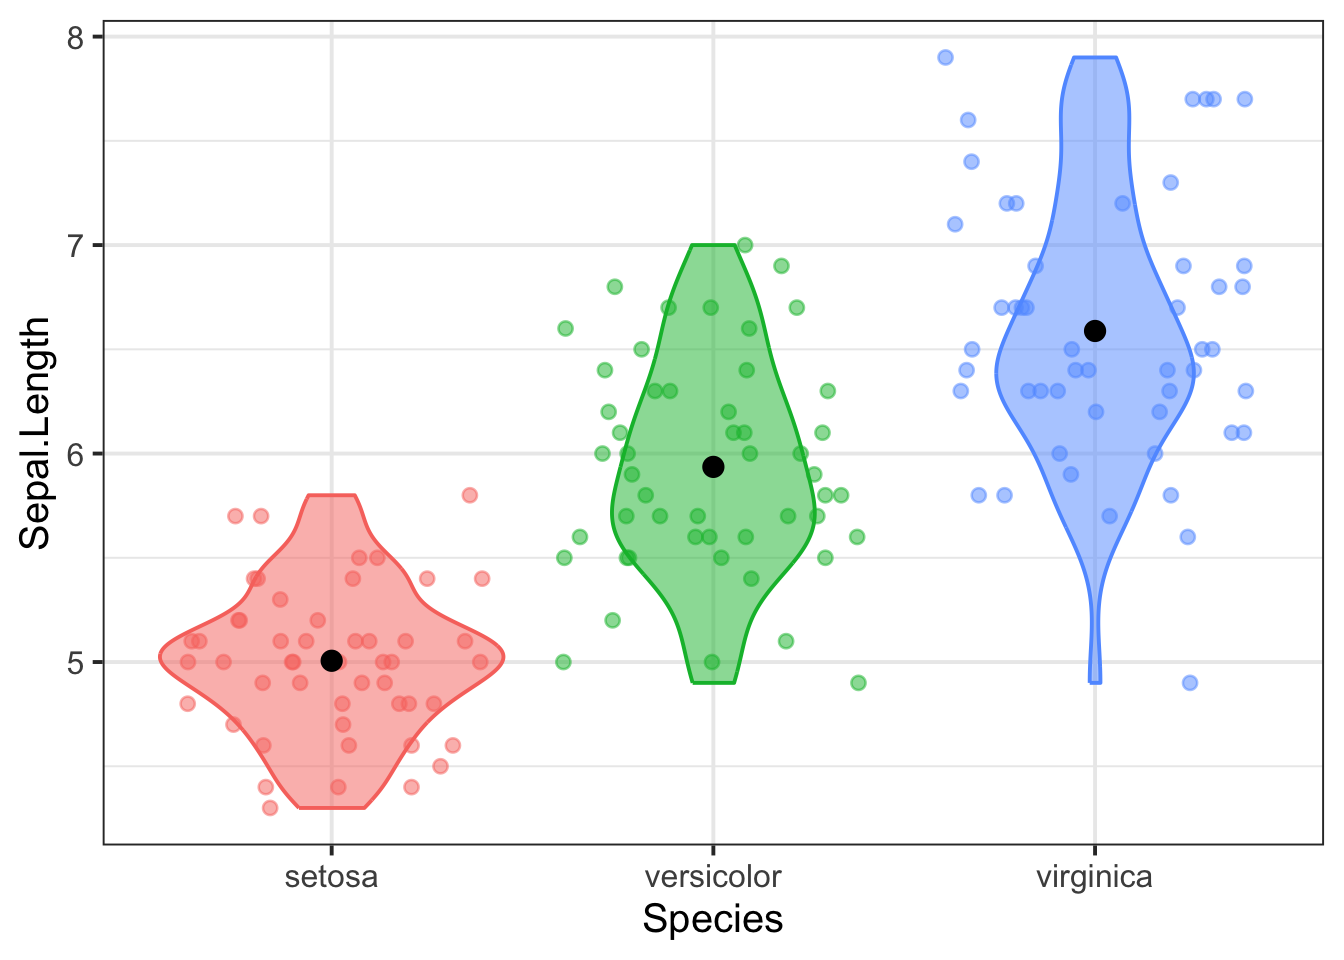
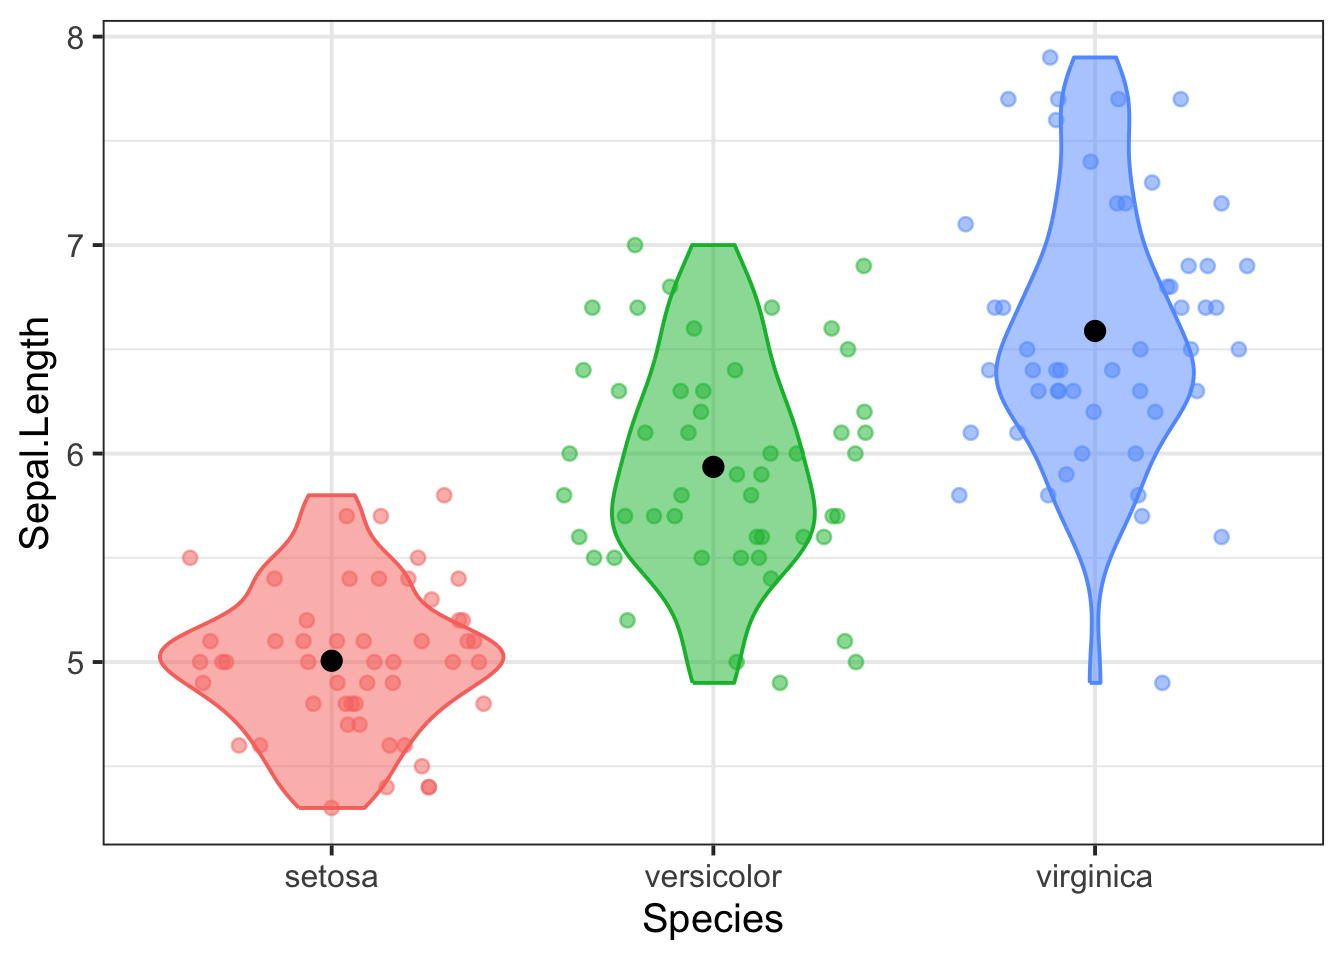
update trtmt coding flash card

diff --git a/docs/2627/flashcards/block2/treatment-coding.html b/docs/2627/flashcards/block2/treatment-coding.html
@@ -392,7 +392,7 @@ window.Quarto = {
   <li><a href="#mathematical-model-formulation" id="toc-mathematical-model-formulation" class="nav-link" data-scroll-target="#mathematical-model-formulation">Mathematical model formulation</a></li>
   </ul></li>
   <li><a href="#what-hypotheses-are-tested-by-treatment-coding" id="toc-what-hypotheses-are-tested-by-treatment-coding" class="nav-link" data-scroll-target="#what-hypotheses-are-tested-by-treatment-coding">What hypotheses are tested by treatment coding?</a></li>
-  <li><a href="#when-to-use-treatment-coding" id="toc-when-to-use-treatment-coding" class="nav-link" data-scroll-target="#when-to-use-treatment-coding">When to use treatment coding?</a></li>
+  <li><a href="#when-to-use-treatment-coding-what-reference-level" id="toc-when-to-use-treatment-coding-what-reference-level" class="nav-link" data-scroll-target="#when-to-use-treatment-coding-what-reference-level">When to use treatment coding? What reference level?</a></li>
   <li><a href="#changing-reference-level" id="toc-changing-reference-level" class="nav-link" data-scroll-target="#changing-reference-level">Changing reference level</a></li>
   <li><a href="#telling-r-to-treatment-code-a-predictor" id="toc-telling-r-to-treatment-code-a-predictor" class="nav-link" data-scroll-target="#telling-r-to-treatment-code-a-predictor">Telling R to treatment-code a predictor</a></li>
   <li><a href="#other-names-for-treatment-coding" id="toc-other-names-for-treatment-coding" class="nav-link" data-scroll-target="#other-names-for-treatment-coding">Other names for treatment coding</a></li>
@@ -758,10 +758,11 @@ H_1 &amp;: \text{Any}~ \beta_j \neq 0 ~\text{(for}~ j = 1, 2 \text{)} \\
 \end{align}
 \]</span></p>
 </section>
-<section id="when-to-use-treatment-coding" class="level2">
-<h2 class="anchored" data-anchor-id="when-to-use-treatment-coding">When to use treatment coding?</h2>
+<section id="when-to-use-treatment-coding-what-reference-level" class="level2">
+<h2 class="anchored" data-anchor-id="when-to-use-treatment-coding-what-reference-level">When to use treatment coding? What reference level?</h2>
 <p>Choose your contrast coding scheme based on the hypotheses you want to test.</p>
 <p>For example: If your RQ asks whether two groups are significantly different, this question can be tested by looking at a slope coefficient of a treatment-coded categorical predictor.</p>
+<p>It usually makes sense for the reference level to be the “control” condition of whatever categorical variable you’re using, if such a condition exists. In general, set the reference level such that the slope coefficients offer useful comparisons between levels that will allow you to address your RQ.</p>
 </section>
 <section id="changing-reference-level" class="level2">
 <h2 class="anchored" data-anchor-id="changing-reference-level">Changing reference level</h2>
